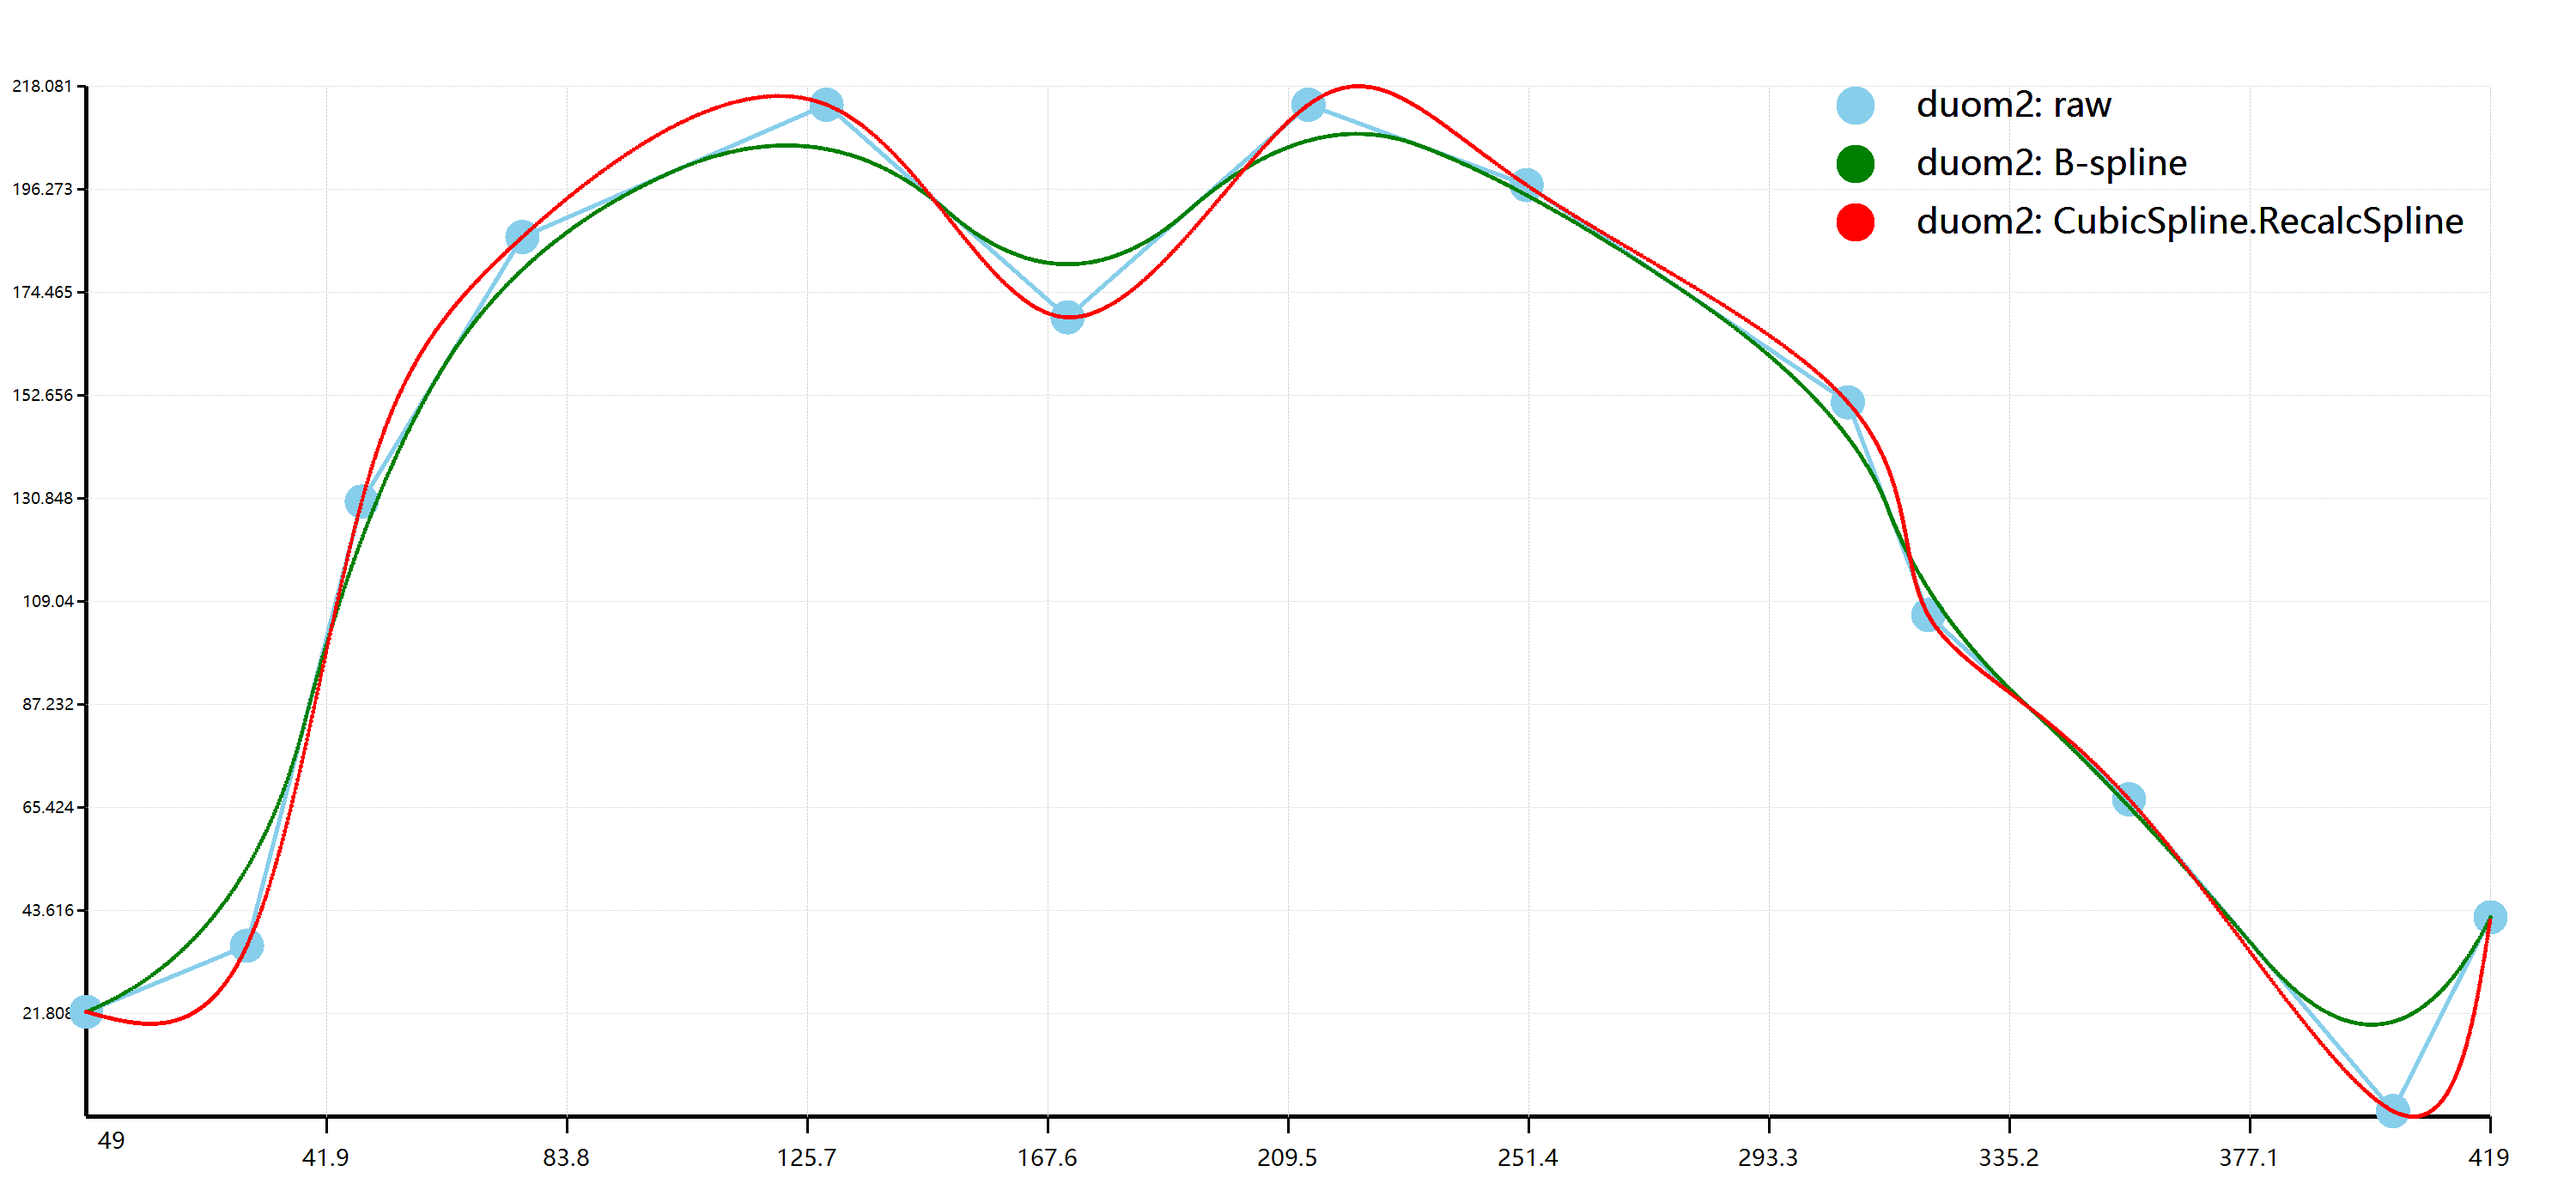
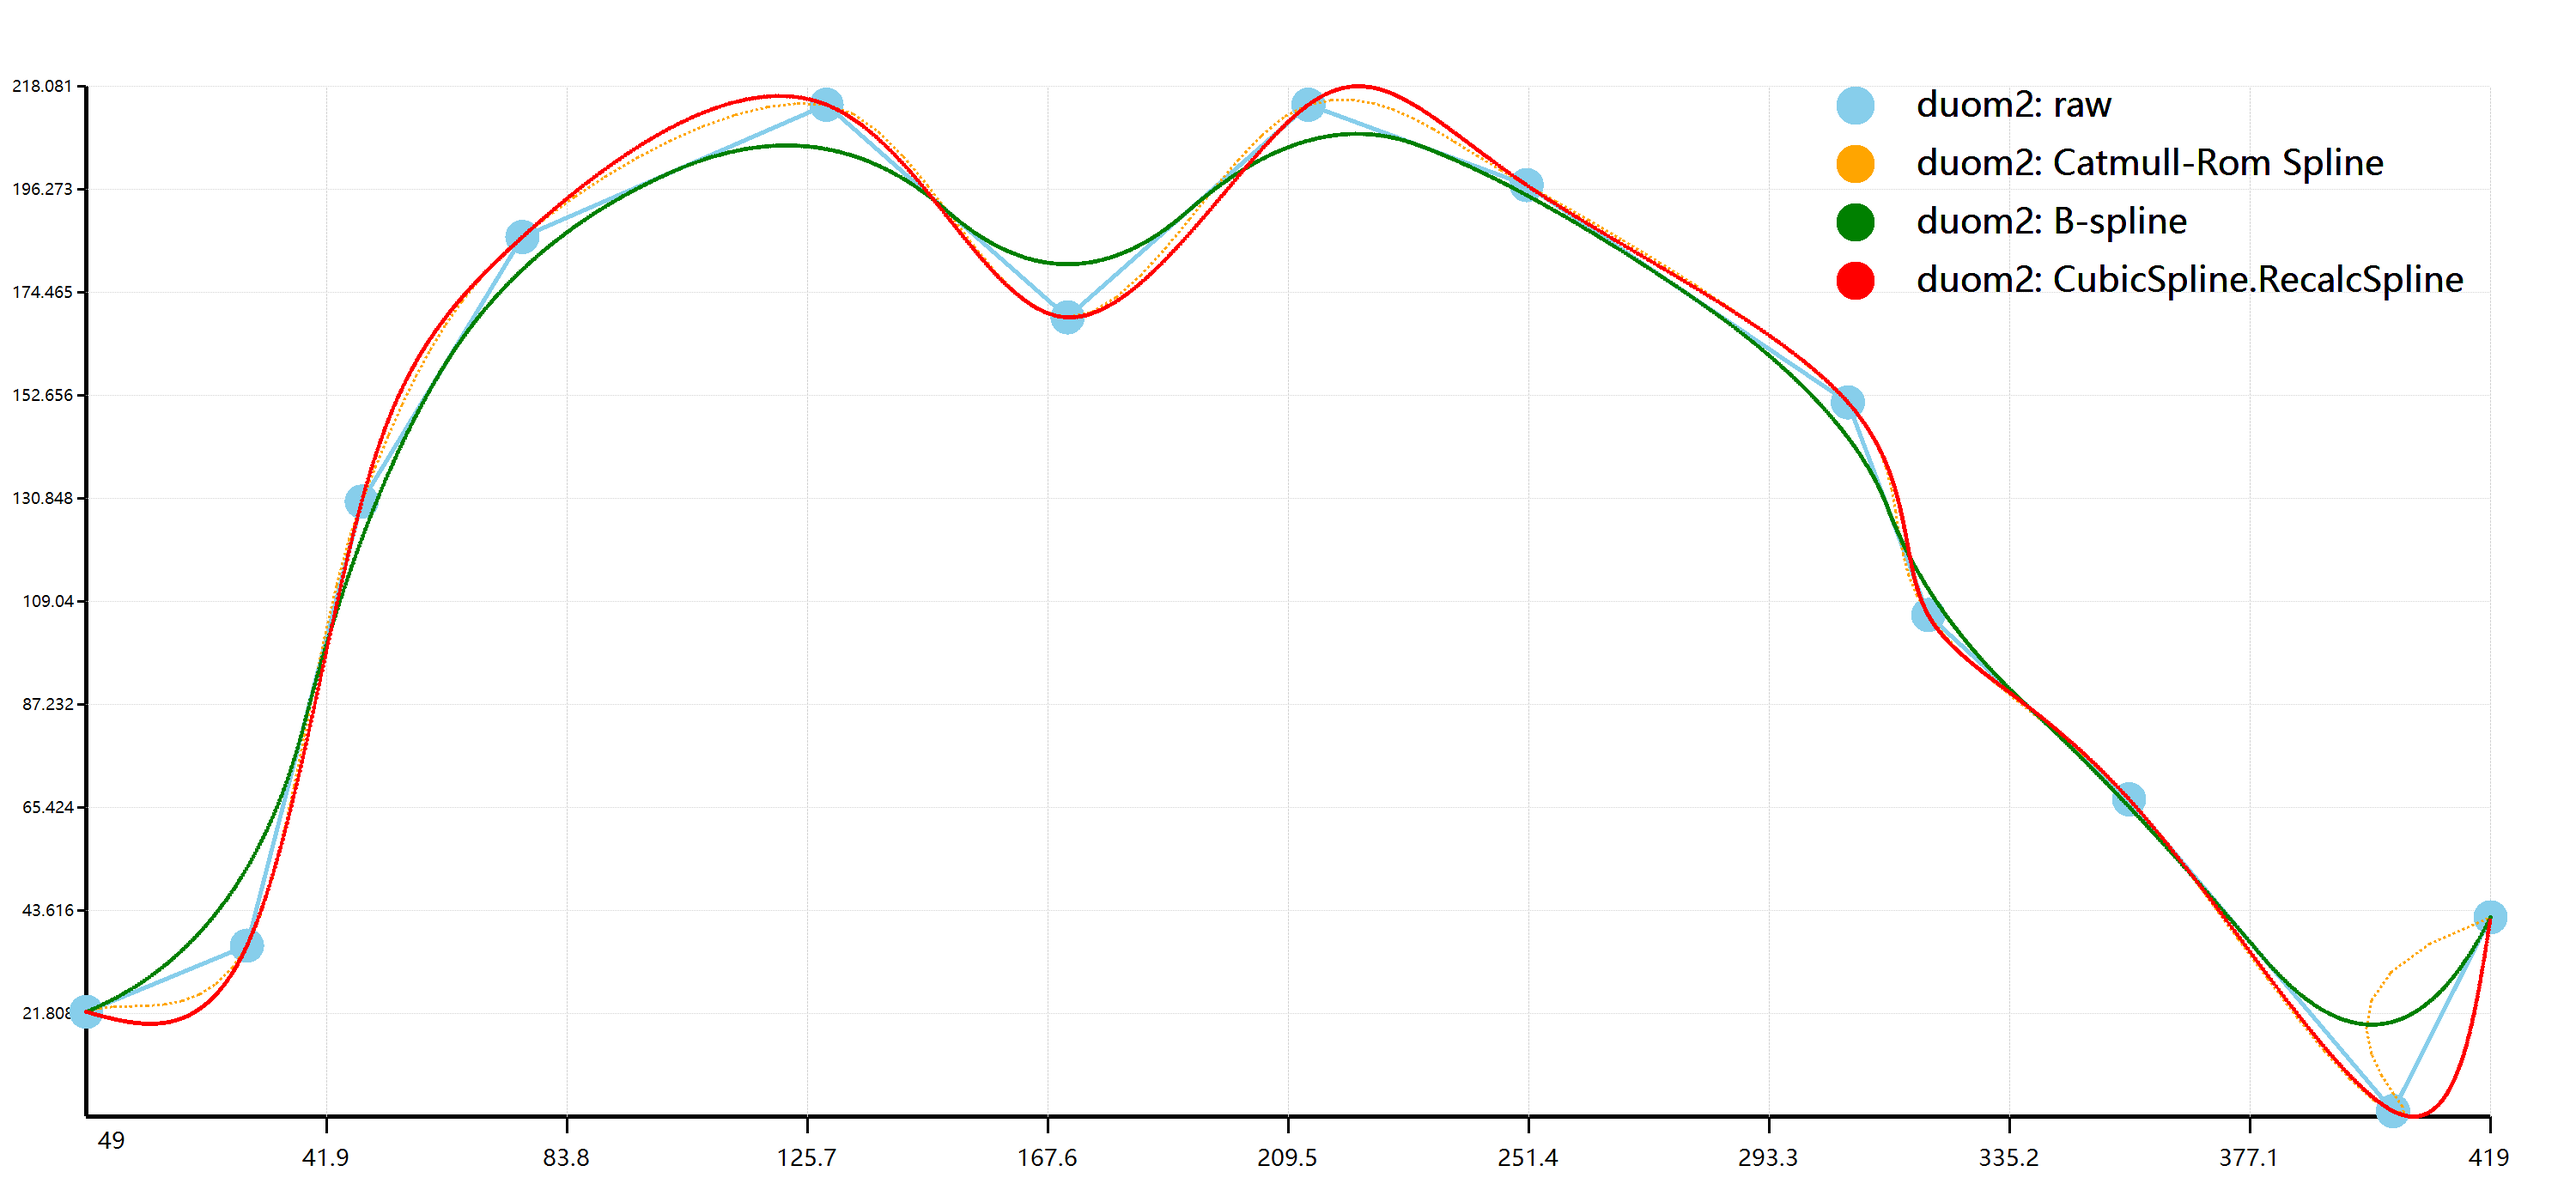
CatmullRomSpline readme doc

Changed region(s): [[0.713, 0.1229, 0.961, 0.2457]]

diff --git a/Data_science/Mathematical/data/Spline_Interpolation/README.md b/Data_science/Mathematical/data/Spline_Interpolation/README.md
@@ -64,7 +64,7 @@ A simple VB.NET tool demonstrating the use of cubic spline interpolation. This t
 Too simple!
 
 ```vbnet
-Imports Microsoft.VisualBasic.Mathematical
+Imports Microsoft.VisualBasic.Mathematical.Interpolation
 
 Dim data As Point() ' = ...
 Dim result = CubicSpline.RecalcSpline(data).ToArray
@@ -87,6 +87,33 @@ Call Scatter.Plot({raw, interplot}) _
 ```
 
 ![](./duom2-cubic-spline.png)
+
+## Catmull–Rom spline
+
+#### How to use
+
+```vbnet
+Dim points As PointF() ' = ...
+Dim result = CatmullRomSpline.CatmullRomSpline(points)
+```
+
+###### Example
+
+```vbnet
+Dim result = CatmullRomSpline.CatmullRomSpline(points)
+
+Dim CRInterplot = result.FromPoints(
+    lineColor:="orange",
+    ptSize:=3,
+    lineType:=DashStyle.Dot,
+    lineWidth:=3,
+    title:="duom2: Catmull-Rom Spline")
+
+Call Scatter.Plot({raw, CRInterplot}, size:=New Size(3000, 1400)) _
+    .SaveAs("./duom2-CatmullRomSpline.png")
+```
+
+![](./duom2-CatmullRomSpline.png)
 
 ## Method Compare
 
